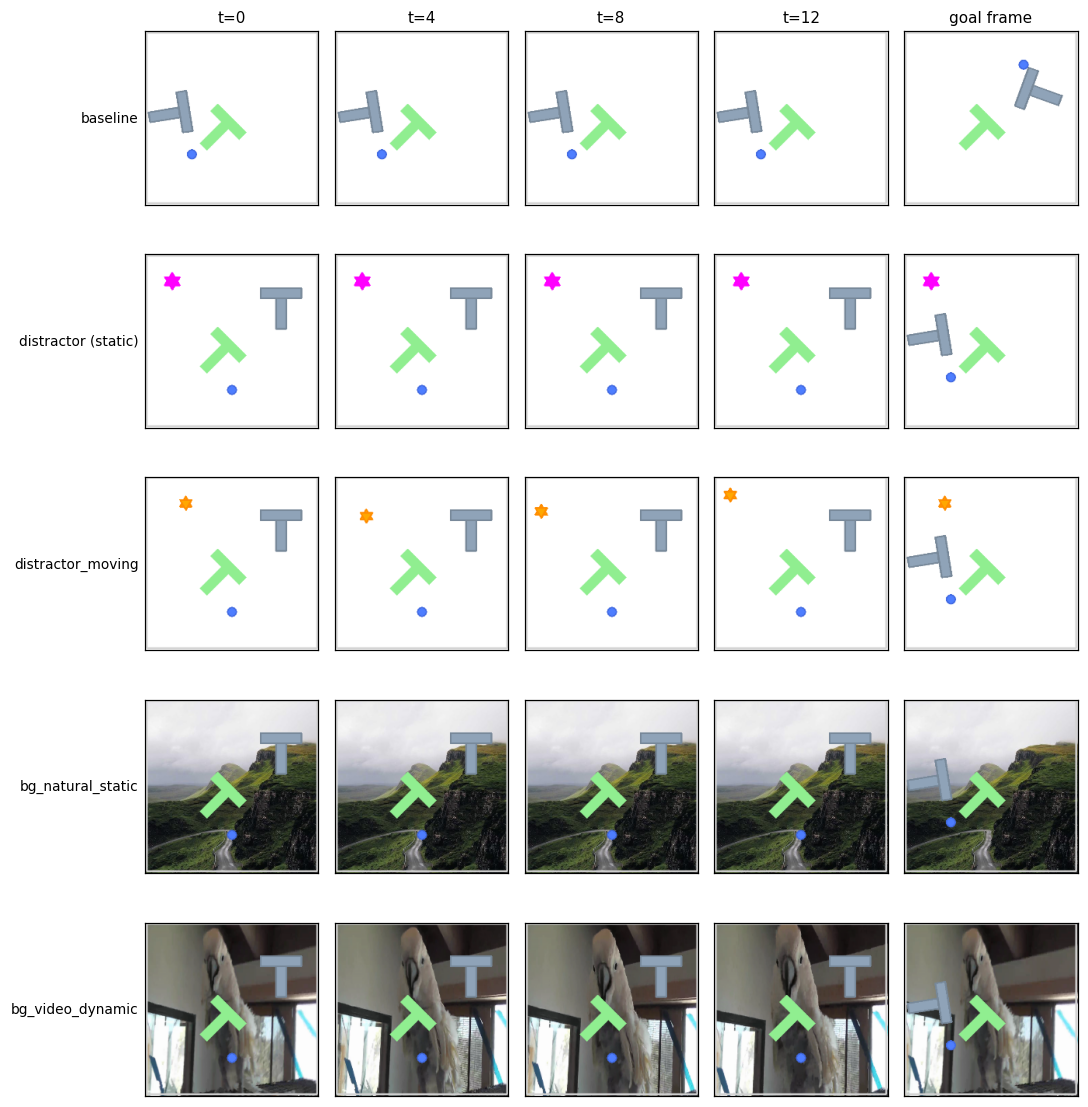
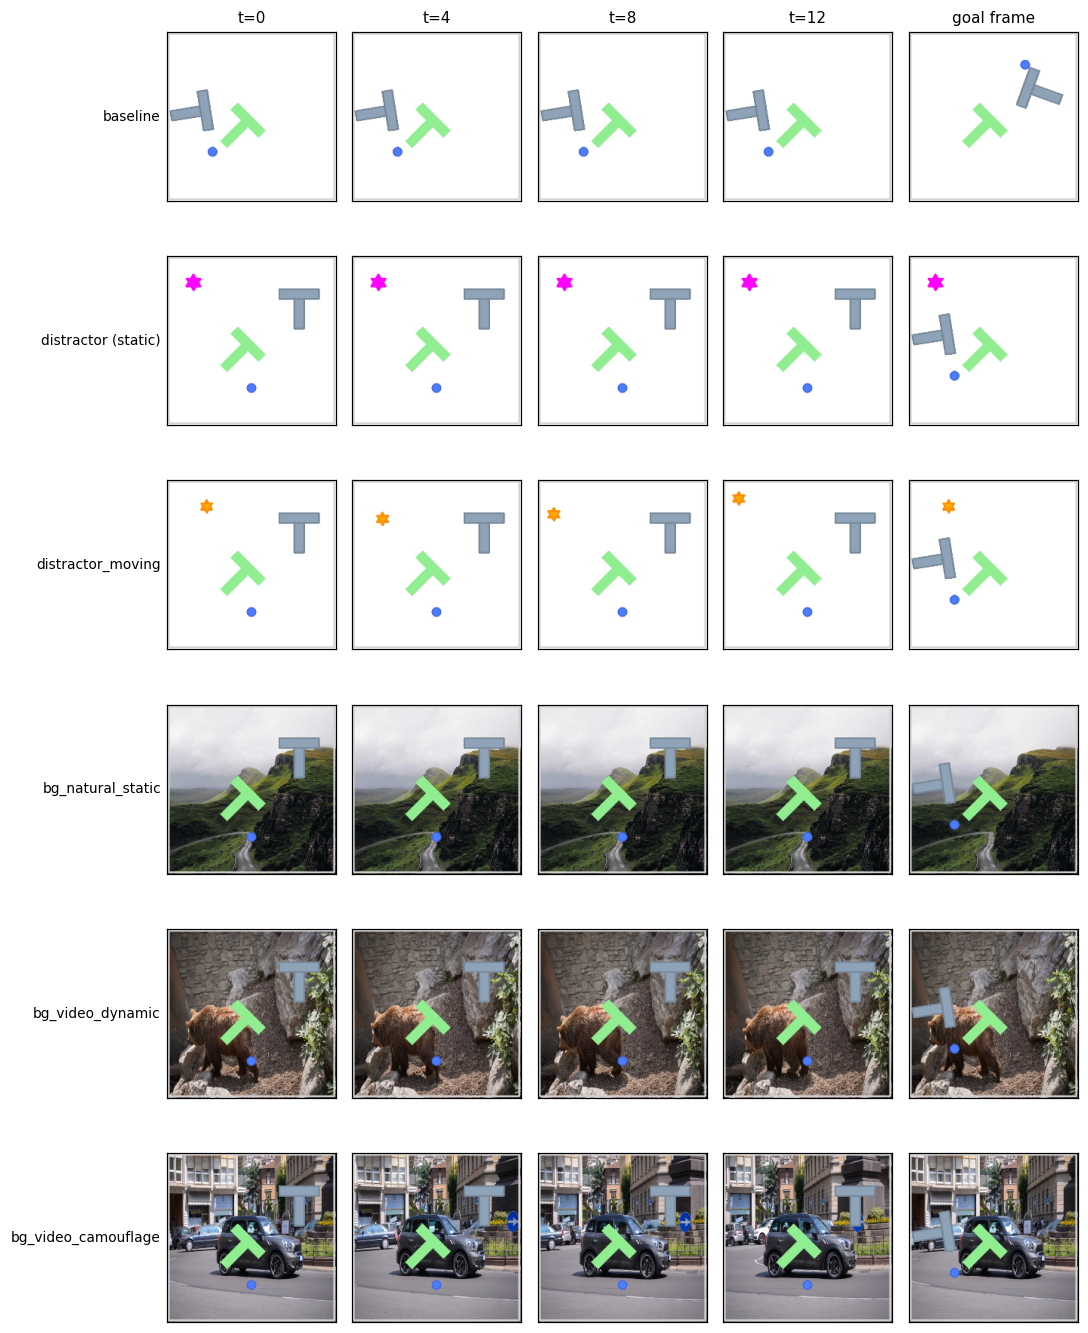
docs: refresh cell figure (6 cells, DAVIS), trust-suite pointers

diff --git a/docs/dynamic_ood_cells.md b/docs/dynamic_ood_cells.md
@@ -9,9 +9,15 @@ on the stable-worldmodel branch **`ood-dynamic-distractors`** (cut from
 ![cells](assets/ood_dynamic_cells.png)
 
 Rows: baseline, static distractor (legacy cell), **distractor_moving**,
-**bg_natural_static**, **bg_video_dynamic**. Columns: env steps t=0..12 under
-zero actions + the goal frame the planner receives. Note the dynamic cells
-change *during* the rollout while the goal frame stays frozen.
+**bg_natural_static**, **bg_video_dynamic** (DAVIS bear),
+**bg_video_camouflage** (DAVIS car-roundabout). Columns: env steps t=0..12
+under zero actions + the goal frame the planner receives. Note the dynamic
+cells change *during* the rollout while the goal frame stays frozen.
+
+Slot-mask sanity view (does the distractor/background get its own slots?):
+`cjepa/scripts/analysis/visualize_slots_dynamic_cells.py` renders these same
+cells with hard argmax slot overlays for VideoSAUR + SC-DINOv3-256
+(outputs in `cjepa/outputs/variation_masks_pusht_dynamic/`).
 
 ## What changed in the PushT env (`stable_worldmodel/envs/pusht/env.py`)
 

diff --git a/docs/ood_setup.md b/docs/ood_setup.md
@@ -189,6 +189,18 @@ Caveats:
 - `agent.color` (cube) and `block.scale` (PushT) were silent no-ops before
   commit `a1437f7`; matrices run before it are stale for those cells.
 
+## Trust verification
+
+Every link of the chain above is pinned by atomic tests in
+`tests/eval/test_ood_trust_chain.py` (goal/start frame correctness vs
+independent re-renders, success-target invariance, baseline byte-identity, a
+no-op sweep over every variation leaf, live-frame tracking — plus regression
+detectors that re-create the missing-goal-callable bug class). At run time,
+`SWM_EVAL_TRUST_CHECKS=1` (exported by the cluster launchers) re-verifies the
+planner inputs inside `evaluate_from_dataset` and fails loudly instead of
+producing plausible-but-wrong success rates. The newer dynamic-distractor
+cells are documented in `dynamic_ood_cells.md`.
+
 ## Running
 
 ```bash
